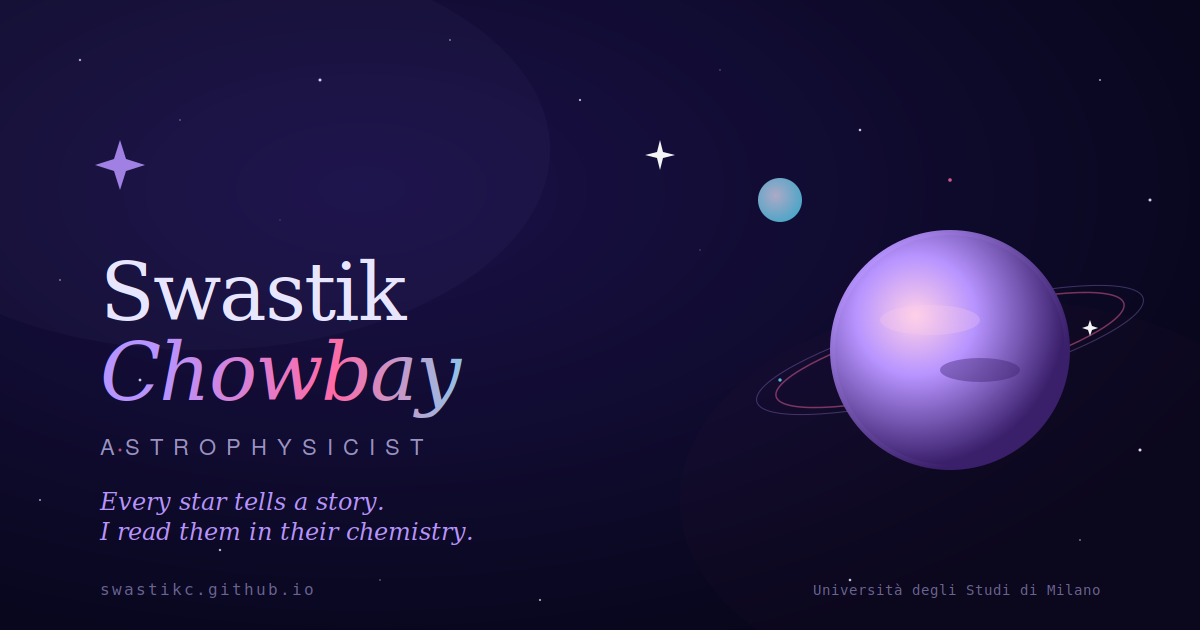
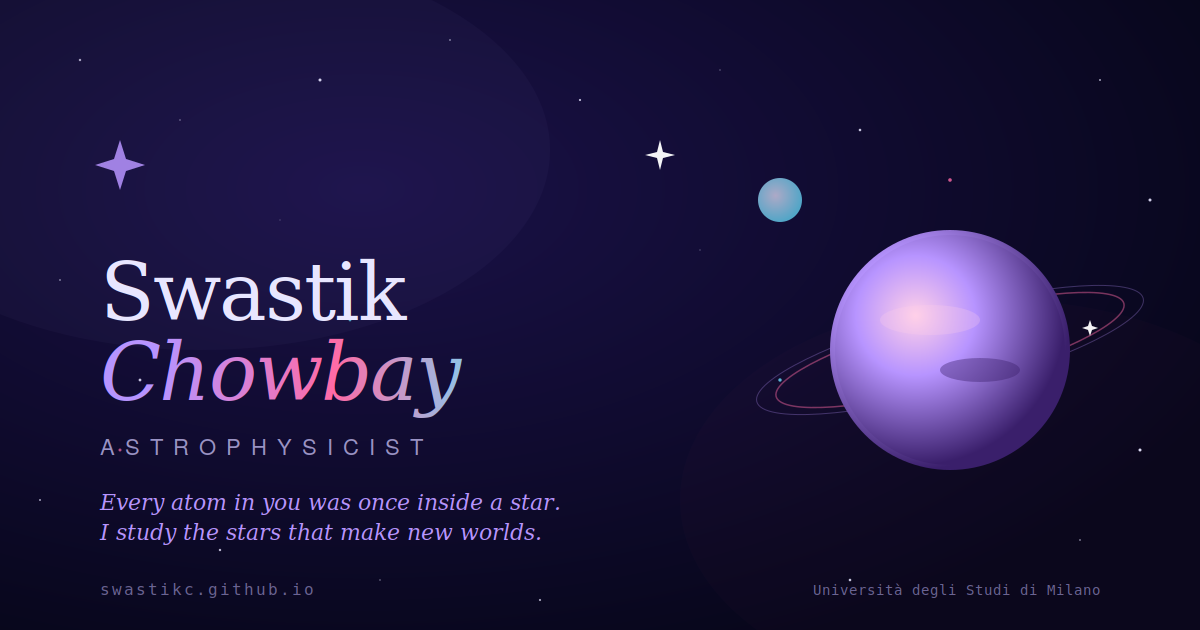
Add files via upload

Changed region(s): [[0.0925, 0.7841, 0.4625, 0.8746]]

diff --git a/index.html b/index.html
@@ -5,7 +5,7 @@
   <meta name="viewport" content="width=device-width, initial-scale=1.0" />
 
   <title>Dr. Swastik C. · Astrophysicist · ERC UNVEIL Fellow</title>
-  <meta name="description" content="Swastik Chowbay is an ERC-funded postdoctoral fellow at Università degli Studi di Milano. He reads the chemical signatures of stars to understand the planets they form — host-star metallicities, stellar ages, and high-contrast imaging of protoplanetary disks with VLT/SPHERE and JWST." />
+  <meta name="description" content="Dr. Swastik Chowbay is an ERC-funded postdoctoral fellow at Università degli Studi di Milano studying how stars build planets. Research on host-star chemistry, stellar ages, and high-contrast imaging of protoplanetary disks with VLT/SPHERE and JWST." />
   <meta name="author" content="Swastik Chowbay" />
   <meta name="keywords" content="Swastik Chowbay, astrophysicist, exoplanets, host stars, stellar ages, galactic chemical evolution, protoplanetary disks, VLT SPHERE, JWST, ERC UNVEIL, Università degli Studi di Milano, Stefano Facchini, Indian Institute of Astrophysics" />
   <link rel="canonical" href="https://swastikc.github.io/" />
@@ -86,7 +86,7 @@
 
   <link rel="preconnect" href="https://fonts.googleapis.com" />
   <link rel="preconnect" href="https://fonts.gstatic.com" crossorigin />
-  <link href="https://fonts.googleapis.com/css2?family=Fraunces:ital,opsz,wght@0,9..144,300;0,9..144,500;0,9..144,700;1,9..144,400&family=IBM+Plex+Sans:wght@300;400;500;600&family=JetBrains+Mono:wght@400;500&display=swap" rel="stylesheet" />
+  <link href="https://fonts.googleapis.com/css2?family=Fraunces:ital,opsz,wght@0,9..144,300;0,9..144,500;0,9..144,700;1,9..144,400&family=IBM+Plex+Sans:wght@300;400;500;600&family=JetBrains+Mono:wght@400;500&family=Noto+Serif+Devanagari:wght@400;500;600&display=swap" rel="stylesheet" />
 
   <link rel="stylesheet" href="css/style.css" />
 </head>
@@ -259,10 +259,18 @@
           </p>
         </div>
 
+        <p class="hero__sanskrit" lang="sa" aria-label="Tat tvam asi — Sanskrit">
+          तत्त्वमसि
+        </p>
         <h1 class="hero__title" id="hero-title">
-          Every star tells a <span class="hero__title-accent">story.</span><br />
-          I read them in their chemistry.
+          Every atom in you<br />
+          was once inside a <span class="hero__title-accent">star.</span><br />
+          I study the stars<br />
+          that make new worlds.
         </h1>
+        <p class="hero__attribution">
+          <em>Tat tvam asi</em> — "You are that." <span class="hero__attribution-source">Chandogya Upanishad</span>
+        </p>
         <p class="hero__lede">
           I'm <strong>Dr. Swastik Chowbay</strong> — an astrophysicist studying
           how the composition and age of host stars shape the planets that orbit

diff --git a/css/style.css b/css/style.css
@@ -2445,3 +2445,62 @@ body.modal-open {
     border-radius: 0;
   }
 }
+
+/* ============================================================
+   Sanskrit Devanagari title + attribution
+   ============================================================ */
+
+.hero__sanskrit {
+  font-family: "Noto Serif Devanagari", "Fraunces", serif;
+  font-size: clamp(1.6rem, 3.2vw, 2.6rem);
+  font-weight: 500;
+  letter-spacing: 0.02em;
+  line-height: 1;
+  margin-bottom: 1.2rem;
+  background: linear-gradient(120deg, var(--accent) 0%, var(--accent-hot) 60%, var(--accent-cool) 100%);
+  -webkit-background-clip: text;
+  background-clip: text;
+  color: transparent;
+  /* Subtle glow for the Sanskrit */
+  filter: drop-shadow(0 0 24px rgba(183, 148, 255, 0.2));
+  animation: fade-up .9s ease 0.1s both;
+}
+
+.hero__attribution {
+  font-family: var(--font-body);
+  font-size: 0.92rem;
+  color: var(--ink-mute);
+  margin-top: 1.5rem;
+  margin-bottom: 2rem;
+  letter-spacing: 0.01em;
+  font-style: normal;
+  animation: fade-up 1s ease 0.45s both;
+}
+
+.hero__attribution em {
+  font-style: italic;
+  color: var(--ink);
+  font-weight: 500;
+}
+
+.hero__attribution-source {
+  display: inline-block;
+  margin-left: 0.5rem;
+  padding-left: 0.8rem;
+  border-left: 1px solid var(--line);
+  font-family: var(--font-mono);
+  font-size: 0.72rem;
+  letter-spacing: 0.1em;
+  text-transform: uppercase;
+  color: var(--ink-dim);
+}
+
+@media (max-width: 540px) {
+  .hero__attribution-source {
+    display: block;
+    margin-left: 0;
+    margin-top: 0.4rem;
+    padding-left: 0;
+    border-left: 0;
+  }
+}
